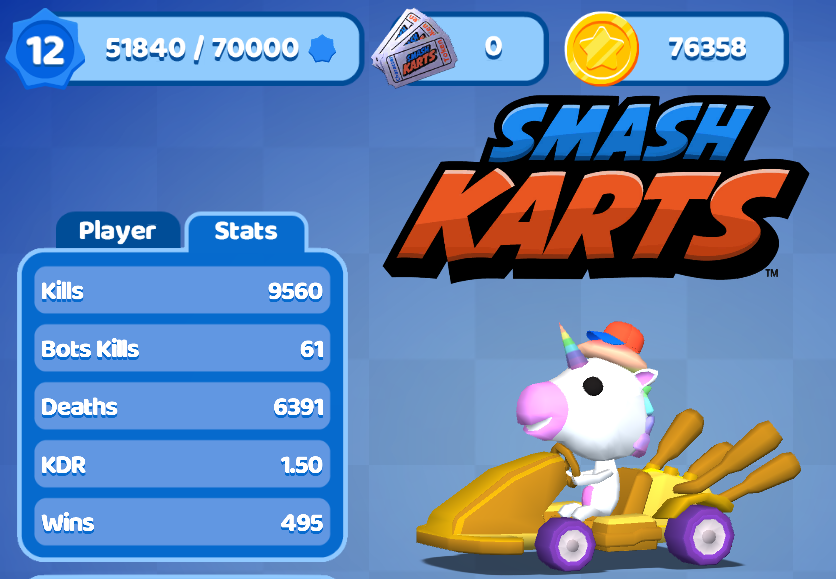
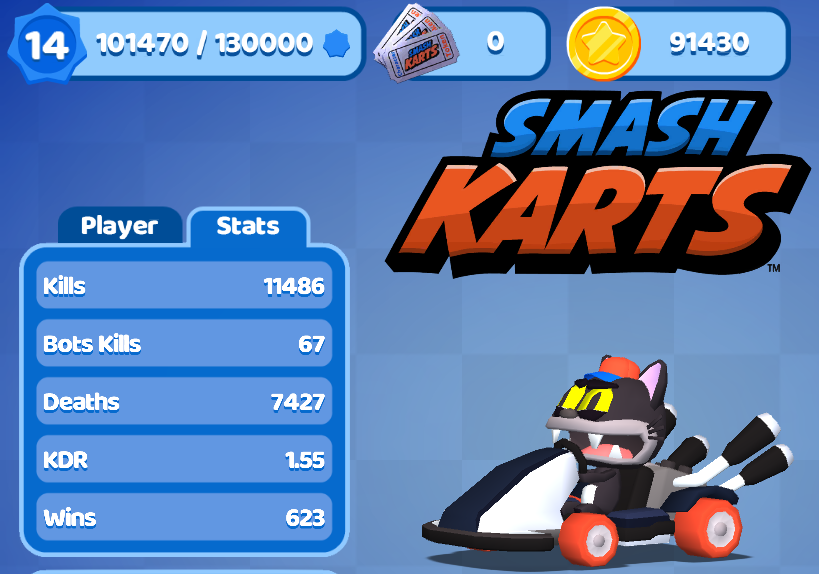
Added blesses45, ElJulen, SirBotsAlot, SMASH BOI, WorstDriver. Updated BAMerica, Bowser, FastNFurious, Fubster, golu, RastaQueen

diff --git a/playerList.js b/playerList.js
@@ -29,7 +29,7 @@ let player = [
      12,
      '5.24.2021'],
     ['AimbotLeila.jpg',
-     'Aimbot.Leila' + newPlayer,
+     'Aimbot.Leila',
      883,
      13950,
      103,
@@ -138,13 +138,13 @@ let player = [
      '5.22.2021'],
     ['BAMerica.png',
      'BAM\'erica',
-     296,
-     10823,
-     581,
-     6482,
-     '1.67',
-     8,
-     '5.24.2021'],
+     324,
+     11194,
+     582,
+     6640,
+     '1.69',
+     9,
+     '5.28.2021'],
     ['Billy.png',
      'Billy',
      25,
@@ -154,6 +154,15 @@ let player = [
      '1.81',
      7,
      '5.25.2021'],
+    ['blesses45.png',
+     'blesses45' + newPlayer,
+     185,
+     2411,
+     291,
+     1494,
+     '1.61',
+     '',
+     '5.28.2021'],
     ['BottyMcBotFace.png',
      'BottyMcBotFace',
      325,
@@ -165,13 +174,13 @@ let player = [
      '5.19.2021'],
     ['Bowser.png',
      'Bowser',
-     1926,
-     27823,
-     9059,
-     14754,
-     '1.89',
+     1963,
+     28427,
+     9072,
+     14983,
+     '1.90',
      13,
-     '5.21.2021'],
+     '5.28.2021'],
     ['brandoom500.png',
      'brandoom500',
      144,
@@ -271,6 +280,15 @@ let player = [
      '3.10',
      '',
      ''],
+    ['ElJulen.png',
+     'ElJulen' + newPlayer,
+     22,
+     353,
+     3,
+     204,
+     '1.73',
+     '',
+     '5.28.2021'],
     ['FancyCarrot.png',
      'FancyCarrot',
      150,
@@ -282,13 +300,13 @@ let player = [
      '5.21.2021'],
     ['FastNFurious.png',
      'FastNFurious',
-     68,
-     1183,
-     63,
-     1196,
-     '0.99',
-     11,
-     '5.24.2021'],
+     100,
+     1721,
+     88,
+     1704,
+     '1.01',
+     12,
+     '5.28.2021'],
     ['Forward.png',
      'Forward',
      725,
@@ -309,13 +327,13 @@ let player = [
      ''],
     ['Fubster.png',
      'Fubster',
-     495,
-     9560,
-     61,
-     6391,
-     '1.50',
-     12,
-     '5.20.2021'],
+     623,
+     11486,
+     67,
+     7427,
+     '1.55',
+     14,
+     '5.28.2021'],
     ['GANPATJAAT.png',
      'GANPATJAAT',
      3093,
@@ -363,13 +381,13 @@ let player = [
      '5.17.2021'],
     ['golu.png',
      'golu',
-     2158,
-     32576,
-     1755,
-     19314,
-     '1.69',
-     15,
-     '5.21.2021'],
+     2251,
+     34115,
+     1765,
+     20256,
+     '1.68',
+     16,
+     '5.28.2021'],
     ['grunwalski.png',
      'grunwalski',
      4337,
@@ -587,7 +605,7 @@ let player = [
      13,
      '5.23.2021'],
     ['Martan.png',
-     'Martan' + newPlayer,
+     'Martan',
      400,
      6390,
      138,
@@ -867,13 +885,13 @@ let player = [
      ''],
     ['RastaQueen.png',
      'RastaQueen',
-     291,
-     3365,
-     322,
-     1588,
-     '2.12',
+     340,
+     3978,
+     375,
+     1866,
+     '2.13',
      '',
-     ''],
+     '5.28.2021'],
      ['REDDY.png',
      'REDDY',
      1820,
@@ -964,6 +982,15 @@ let player = [
      '1.55',
      '',
      ''],
+    ['SirBotsAlot2.png',
+     'SirBotsAlot' + newPlayer,
+     502,
+     5209,
+     702,
+     2492,
+     '2.09',
+     12,
+     '5.28.2021'],
     ['SirBotsalot.png',
      'SirBotsalot',
      445,
@@ -991,6 +1018,15 @@ let player = [
      '1.50',
      9,
      '5.17.2021'],
+    ['SMASH BOI.png',
+     'SMASH BOI' + newPlayer,
+     545,
+     7928,
+     298,
+     5669,
+     '1.40',
+     15,
+     '5.28.2021'],
     ['SmashKarts.png',
      'SmashKarts',
      37,
@@ -1171,6 +1207,15 @@ let player = [
      '1.50',
      '',
      '5.17.2021'],
+    ['WorstDriver.png',
+     'WorstDriver' + newPlayer,
+     198,
+     3109,
+     62,
+     1744,
+     '1.78',
+     '',
+     '5.28.2021'],
     ['xzjkdjkn.png',
      'xzjkdjkn',
      1172,
